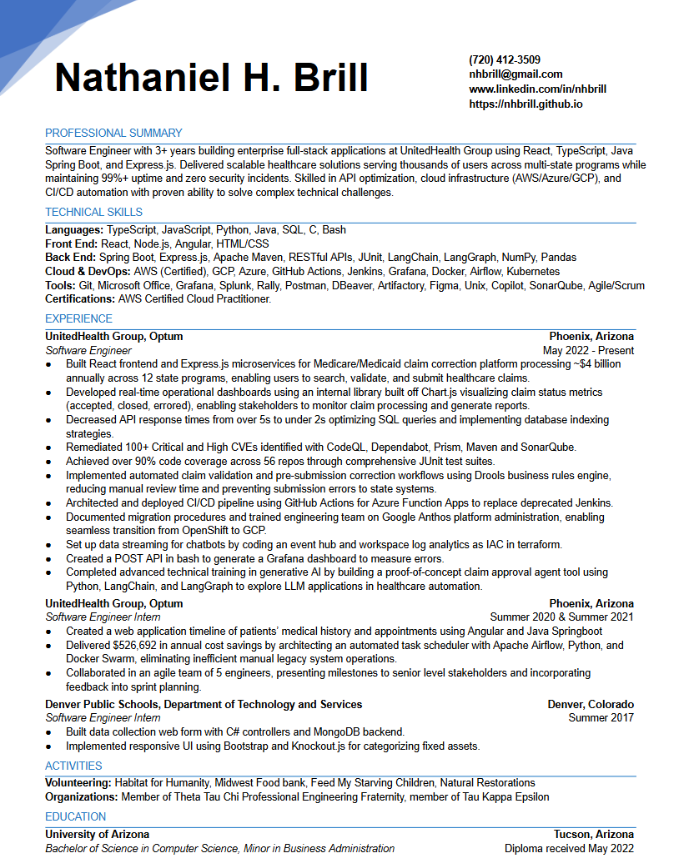
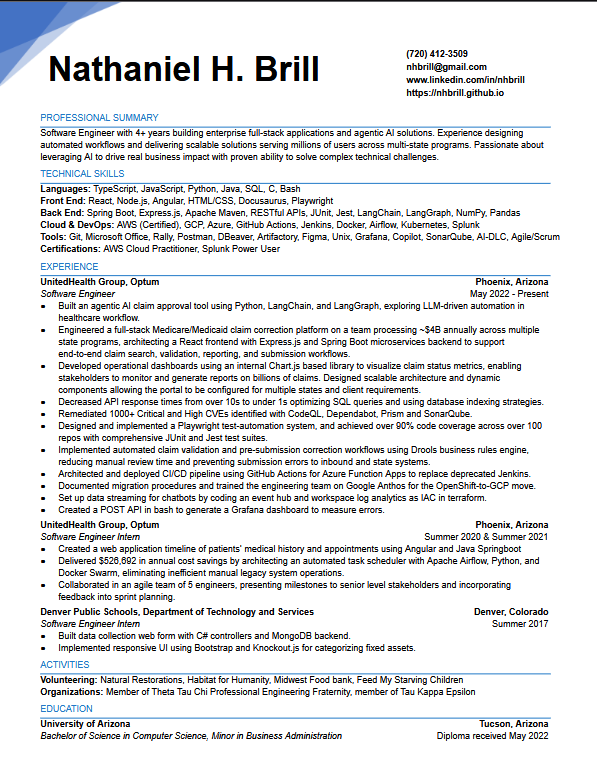
Splunk

diff --git a/docs/intro.md b/docs/intro.md
@@ -4,7 +4,7 @@ sidebar_position: 1
 
 # About Me
 <p align="left" >
-I am a Software Engineer with 3+ years building enterprise full-stack applications at UnitedHealth Group using React, TypeScript, Java Spring Boot, and Express.js. Delivered scalable healthcare solutions serving thousands of users across multi-state programs while maintaining 99%+ uptime and zero security incidents. Skilled in API optimization, cloud infrastructure (AWS/Azure/GCP), and CI/CD automation with proven ability to solve complex technical challenges. I gradutated from the University of Arizona with a Bachelor of Science in Computer Science and a minor in Buisness administration.<br />
+Software Engineer with experience building enterprise full-stack applications at UnitedHealth Group using React, TypeScript, Java Spring Boot, and Express.js. Delivered scalable healthcare solutions serving thousands of users across multi-state programs. Skilled in API optimization, cloud infrastructure (AWS/Azure/GCP), AI solutions and CI/CD automation with proven ability to solve complex technical challenges. I gradutated from the University of Arizona with a Bachelor of Science in Computer Science and a minor in Buisness administration.<br />
 </p>
 <p align="center">
 <img src={require('@site/static/img/grad.PNG').default} width="160rem" height="250rem" />

diff --git a/docs/documents/certifications.md b/docs/documents/certifications.md
@@ -2,3 +2,5 @@
 <hr></hr>
 ## AWS Certified Web Practitioner
 ![AWSCCP](./img/awsccp.png)
+## Splunk Certified Power User
+![SPLUNK](./img/splunkcert.jpg)
